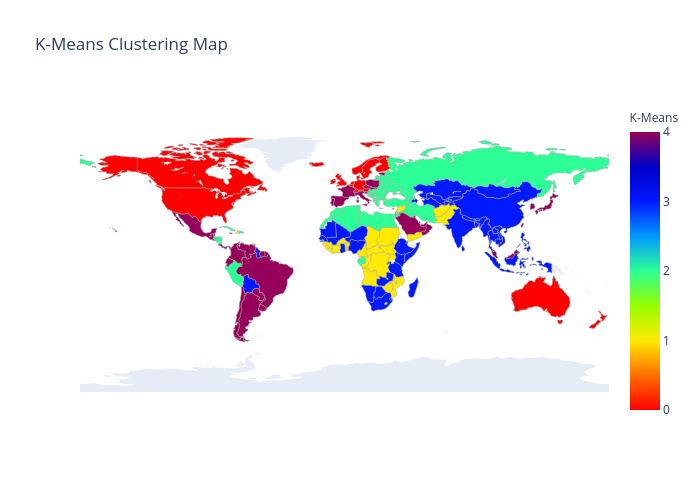
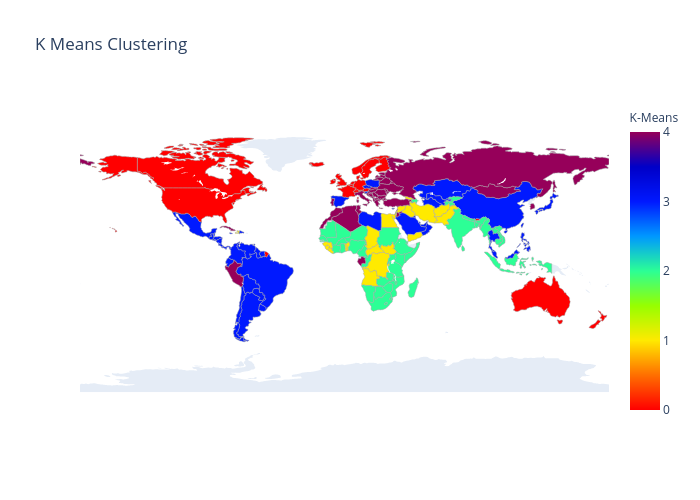
+  2 classes + report

diff --git a/KMeansClustering.py b/KMeansClustering.py
@@ -6,8 +6,9 @@ import chart_studio.plotly as py
 import plotly.graph_objects as go
 
 
-# back-end
-class KMeansClustering:
+# ---------- back-end ------------
+# class for preprocess the data: cleaning nans, standardization and aggregation the data
+class Preprocess:
     # constructor
     def __init__(self, path):
         self.data_frame = pd.read_excel(path, index_col=0)
@@ -17,7 +18,7 @@ class KMeansClustering:
         self.data_frame.fillna(self.data_frame.mean(), inplace=True)
 
     # normalize the data
-    def normalize(self):
+    def standardization(self):
         col_names = []
         for col_name in self.data_frame.columns:
             if col_name != 'country' and col_name != 'year':
@@ -31,6 +32,13 @@ class KMeansClustering:
     def aggregate_by_country(self):
         self.data_frame = self.data_frame.groupby('country').mean()
         self.data_frame = self.data_frame.drop(['year'], axis=1)
+
+
+# class runs the K-Means algorithm and returns the results
+class Clustering:
+    # constructor
+    def __init__(self, data_frame):
+        self.data_frame = data_frame
 
     # run k-mean algorithm with given parameters
     def activate_k_means_algorithm(self, n_clusters, n_init):
@@ -77,19 +85,19 @@ class KMeansClustering:
 # ----------- Tests preprocess (2) -----------
 
 # create preprocess
-k_means_clustering = KMeansClustering('Dataset.xlsx')
+preprocess = Preprocess('Dataset.xlsx')
 
 # clean_na - works
 # print(k_means_clustering.data_frame.isna().sum())
-k_means_clustering.clean_na()
+preprocess.clean_na()
 # print(k_means_clustering.data_frame.isna().sum())
 
 # normalize - works
-k_means_clustering.normalize()
+preprocess.standardization()
 # print(k_means_clustering.data_frame.to_string())
 
 # aggregate by country - works
-k_means_clustering.aggregate_by_country()
+preprocess.aggregate_by_country()
 # print(k_means_clustering.data_frame.to_string())
 # k_means_clustering.data_frame.to_csv("data_frame_test.csv")
 
@@ -97,12 +105,13 @@ k_means_clustering.aggregate_by_country()
 # ----------- Tests clustering (3) -----------
 
 # activate k-means algorithm and add result as column to df - works
-k_means_clustering.activate_k_means_algorithm(5, 5)
+clustering = Clustering(preprocess.data_frame)
+clustering.activate_k_means_algorithm(5, 5)
 # print(clustering.data_frame.to_string())
 # k_means_clustering.data_frame.to_csv("data_frame_test.csv")
 
 # plot scatter pf Generosity:Social_Support from df
-k_means_clustering.create_scatter_generosity_social_support()
+clustering.create_scatter_generosity_social_support()
 
 # map figure - works
-k_means_clustering.create_country_map()
+clustering.create_country_map()
